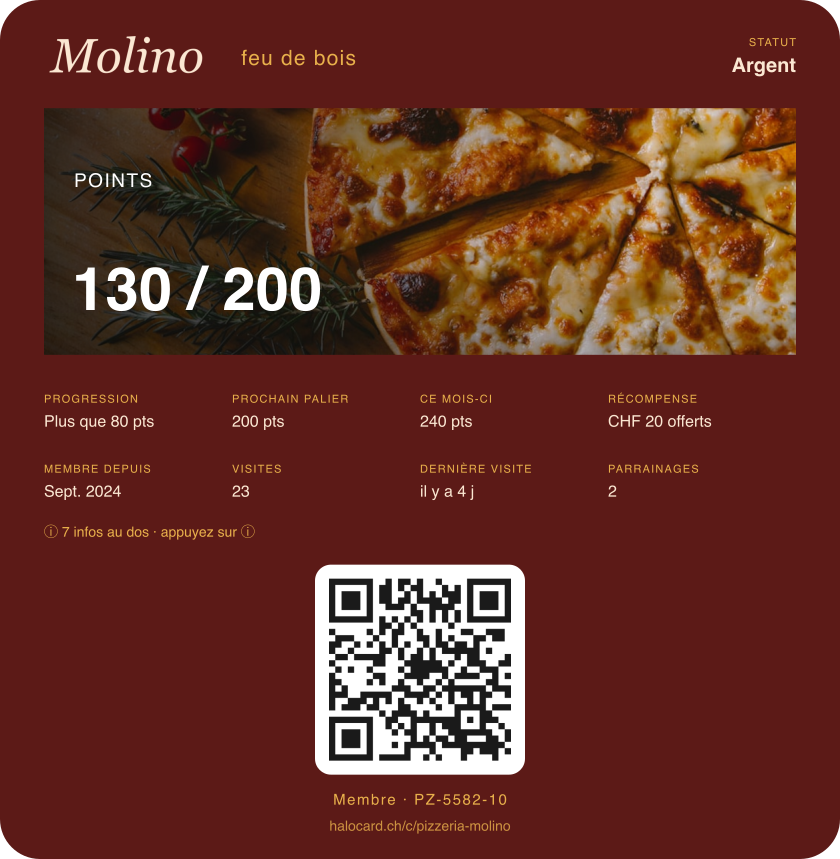
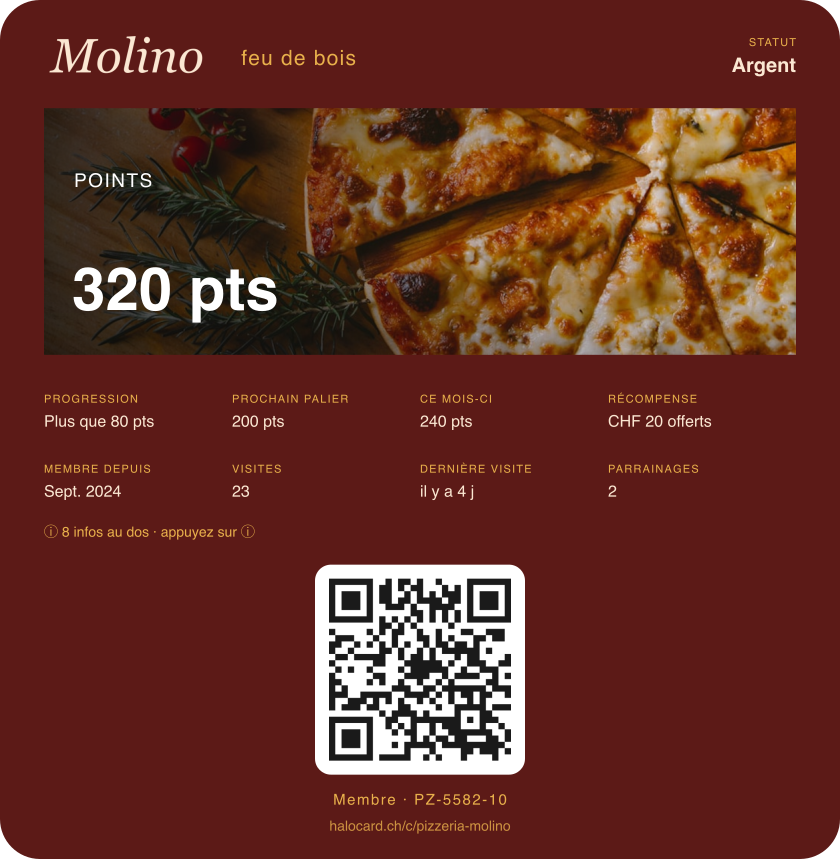
fix(demo-kit): stamp_goal borné à 50 (contrainte 1-50) + primary statique amount_points
Le seed échouait sur Pizzeria : stamp_goal=200 violait merchants_stamp_goal_range
(BETWEEN 1 AND 50). Correctif :
- goalForDisplay plafonné à 50.
- amount_points : primary STATIQUE (« 320 pts ») — le seuil 200 dépasse la borne,
  le jeton {points}=« X/50 » serait trompeur ; un {points} discret au dos neutralise
  le fallback « carte morte » de passJson.
- pas de mirror stamps_count (comptoir lit points_balance).
Gate : tsc clean · vitest vert.

Changed region(s): [[0.2167, 0.3027, 0.4024, 0.3935], [0.0929, 0.3027, 0.1857, 0.3632]]

diff --git a/src/lib/demo/seedKit.ts b/src/lib/demo/seedKit.ts
@@ -77,14 +77,19 @@ function primaryLabel(entry: DemoKitEntry): string {
   }
 }
 
-// « Objectif » d'affichage pour le jeton {points} = "X / objectif" (merchants.stamp_goal).
+// « Objectif » d'affichage pour le jeton {points} = "X / objectif".
+// Borné à merchants.stamp_goal ∈ [1, 50] (contrainte merchants_stamp_goal_range).
+// amount_points utilise un primary STATIQUE (le seuil 200 dépasse la borne) →
+// son objectif sert seulement au champ {points} discret du dos.
 export function goalForDisplay(entry: DemoKitEntry): number {
+  let raw: number;
   switch (entry.loyaltyType) {
-    case "stamp_card": return entry.loyaltyConfig.goal;
-    case "visit_based": return Math.max(...entry.loyaltyConfig.milestones);
-    case "tiered": return Math.max(...entry.loyaltyConfig.tiers.map((t) => t.at));
-    case "amount_points": return entry.loyaltyConfig.rewardThreshold;
+    case "stamp_card": raw = entry.loyaltyConfig.goal; break;
+    case "visit_based": raw = Math.max(...entry.loyaltyConfig.milestones); break;
+    case "tiered": raw = Math.max(...entry.loyaltyConfig.tiers.map((t) => t.at)); break;
+    case "amount_points": raw = entry.loyaltyConfig.rewardThreshold; break;
   }
+  return Math.max(1, Math.min(50, raw));
 }
 
 // Jeu de champs RICHE remplissant les zones natives (cf. carte showcase du site).
@@ -93,13 +98,19 @@ export function goalForDisplay(entry: DemoKitEntry): number {
 // (carte vivante F1) → on NE les duplique PAS ici.
 export function kitDesignFields(entry: DemoKitEntry): CardField[] {
   const d = entry.demo;
+  // primary : tiered → {palier} ; amount_points → valeur STATIQUE (seuil > 50,
+  // le jeton {points}="X/50" serait trompeur) ; stamp/visit → {points}="X/objectif".
+  const primary: CardField =
+    entry.loyaltyType === "tiered"
+      ? { id: "primary", zone: "primary", label: "STATUT", value: "{palier}", order: 2 }
+      : entry.loyaltyType === "amount_points"
+        ? { id: "primary", zone: "primary", label: "POINTS", value: d.primaryValue ?? "{points}", order: 2 }
+        : { id: "primary", zone: "primary", label: primaryLabel(entry), value: "{points}", order: 2 };
+
   const fields: CardField[] = [
     { id: "h_statut", zone: "header", label: "STATUT", value: d.statut, order: 0 },
     { id: "h_since", zone: "header", label: "DEPUIS", value: d.since, order: 1 },
-    // primary : tiered → palier (texte) ; sinon le compteur {points} = "X / objectif".
-    entry.loyaltyType === "tiered"
-      ? { id: "primary", zone: "primary", label: "STATUT", value: "{palier}", order: 2 }
-      : { id: "primary", zone: "primary", label: primaryLabel(entry), value: "{points}", order: 2 },
+    primary,
     { id: "s_prog", zone: "secondary", label: "PROGRESSION", value: d.progression, order: 3 },
     { id: "s_next", zone: "secondary", label: "PROCHAIN PALIER", value: d.nextStep, order: 4 },
     { id: "s_month", zone: "secondary", label: "CE MOIS-CI", value: d.thisMonth, order: 5 },
@@ -114,6 +125,11 @@ export function kitDesignFields(entry: DemoKitEntry): CardField[] {
     { id: "b_how", zone: "back", label: "COMMENT ÇA MARCHE", value: d.howItWorks, order: 11 },
     { id: "b_cond", zone: "back", label: "CONDITIONS DE LA RÉCOMPENSE", value: d.conditions, order: 12 },
   ];
+  // amount_points : primary statique → aucun {points} ailleurs. On en place un au
+  // DOS (discret) pour neutraliser le fallback « carte morte » de passJson.
+  if (entry.loyaltyType === "amount_points") {
+    fields.push({ id: "b_counter", zone: "back", label: "PROGRESSION", value: "{points}", order: 13 });
+  }
   return fields;
 }
 
@@ -199,13 +215,12 @@ const DEMO_NAMES = [
   "Claire Favre", "Tom Schneider", "Léa Girard", "Paul Hofer",
 ] as const;
 
-// Place la valeur de compteur dans les bonnes colonnes selon la mécanique.
-// amount_points : on MIROITE points_balance ET stamps_count — le comptoir lit
-// points_balance, et la carte Wallet affiche le jeton {points}="X / objectif"
-// (qui lit stamps_count) avec un nombre cohérent. Les autres : stamps_count.
+// Place la valeur de compteur dans la bonne colonne selon la mécanique.
+// amount_points : le comptoir lit points_balance (la carte affiche un primary
+// STATIQUE) ; les autres : stamps_count (lu par le jeton {points}).
 function counterToCard(entry: DemoKitEntry, value: number): { stampsCount: number; pointsBalance: number } {
   return entry.loyaltyType === "amount_points"
-    ? { stampsCount: value, pointsBalance: value }
+    ? { stampsCount: 0, pointsBalance: value }
     : { stampsCount: value, pointsBalance: 0 };
 }
 

diff --git a/src/lib/demo/__tests__/seedKit.test.ts b/src/lib/demo/__tests__/seedKit.test.ts
@@ -80,12 +80,20 @@ describe("buildKitMerchantUpdate — identité + programme", () => {
     expect(u.setup_mode).toBe("concierge");
   });
 
-  it("Pizzeria : amount_points, stamp_goal = seuil (objectif du jeton {points}), pas de place_id", () => {
+  it("Pizzeria : amount_points, stamp_goal borné à 50 (contrainte 1-50), pas de place_id", () => {
     const u = buildKitMerchantUpdate(pizzeria, new Date());
     expect(u.loyalty_type).toBe("amount_points");
     expect(u.reward_label).toBe("CHF 20 offerts");
-    expect(u.stamp_goal).toBe(200); // {points} = "X / 200"
+    expect(u.stamp_goal).toBe(50); // seuil 200 plafonné à 50 (primary statique de toute façon)
     expect(u.google_place_id).toBeUndefined();
+  });
+
+  it("stamp_goal de chaque marchand respecte la contrainte 1-50", () => {
+    for (const entry of DEMO_KIT) {
+      const g = buildKitMerchantUpdate(entry, new Date()).stamp_goal as number;
+      expect(g, entry.shopName).toBeGreaterThanOrEqual(1);
+      expect(g, entry.shopName).toBeLessThanOrEqual(50);
+    }
   });
 });
 
@@ -105,14 +113,10 @@ describe("planKitCards — clientèle à états variés", () => {
       expect(justOffered!.stampsCount + justOffered!.pointsBalance).toBe(0);
     });
 
-    it(`${entry.shopName} : colonnes compteur cohérentes avec la mécanique`, () => {
+    it(`${entry.shopName} : la bonne colonne porte le compteur selon la mécanique`, () => {
       for (const c of planKitCards(entry)) {
-        if (entry.loyaltyType === "amount_points") {
-          // amount_points : points_balance (comptoir) ET stamps_count (Wallet) miroités.
-          expect(c.stampsCount).toBe(c.pointsBalance);
-        } else {
-          expect(c.pointsBalance).toBe(0);
-        }
+        if (entry.loyaltyType === "amount_points") expect(c.stampsCount).toBe(0);
+        else expect(c.pointsBalance).toBe(0);
       }
     });
   }

diff --git a/src/lib/demo/kit.ts b/src/lib/demo/kit.ts
@@ -44,6 +44,7 @@ export type DemoArtText = {
 export type DemoFieldData = {
   statut: string;        // header « STATUT » (Or / Argent / Membre…)
   since: string;         // header « DEPUIS » (année)
+  primaryValue?: string; // valeur primary STATIQUE (amount_points : seuil > 50, jeton inadapté)
   progression: string;   // secondary « PROGRESSION »
   nextStep: string;      // secondary « PROCHAIN PALIER »
   thisMonth: string;     // secondary « CE MOIS-CI »
@@ -233,6 +234,7 @@ export const DEMO_KIT: readonly DemoKitEntry[] = [
     bannerPhoto: "pass-assets/banners/pizza.jpg",
     demo: {
       statut: "Argent", since: "1962",
+      primaryValue: "320 pts",
       progression: "Plus que 80 pts", nextStep: "200 pts", thisMonth: "240 pts",
       memberSince: "Sept. 2024", totalVisits: "23", lastVisit: "il y a 4 j", referrals: "2",
       memberId: "PZ-5582-10",
